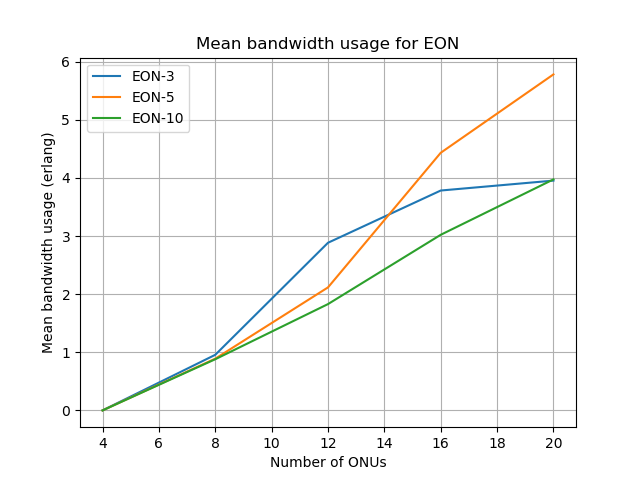
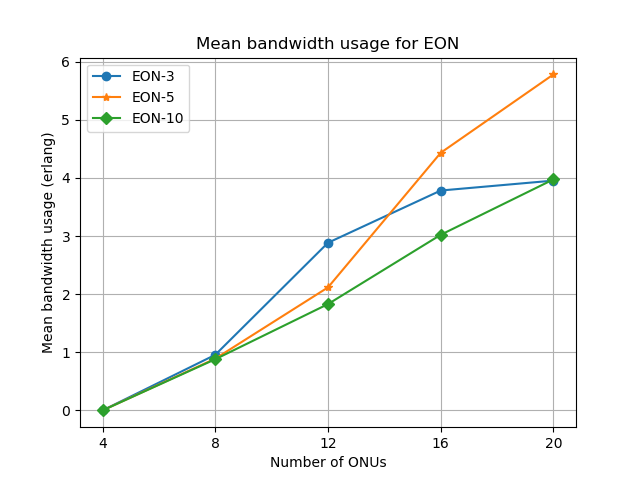
Improved graphic with markers; storing results per-seed

diff --git a/experiments/results/results_plotter.py b/experiments/results/results_plotter.py
@@ -1,9 +1,11 @@
 import numpy as np
 import matplotlib.pyplot as plt
+import itertools
 
 experiments = [3,5,10]
 supports = ["eon", "twdm", "both"]
 results = [("Average wait", 3), ("Mean bandwidth usage", 4), ("Percentage of requests blocked", 2)]
+marker = itertools.cycle(('v', '^', 's', 'o', '*', 'D')) 
 
 # Plotting average wait for TWDM
 for experiment in experiments:
@@ -18,7 +20,7 @@ for experiment in experiments:
         n_onus.append(int(line.split('\t')[0]))
         wait.append(float(line.split('\t')[3]))
 
-    plt.plot(n_onus, wait, label="TWDM-{}".format(experiment))
+    plt.plot(n_onus, wait, marker=next(marker), label="TWDM-{}".format(experiment))
 
 plt.yscale('log')
 plt.grid(True, "major")
@@ -26,6 +28,7 @@ plt.grid(True, "minor", linestyle='dotted')
 plt.title("Average wait for TWDM")
 plt.legend()
 plt.xlabel("Number of ONUs")
+plt.xticks(n_onus)
 plt.ylabel("Average wait (s)")
 plt.savefig("Average wait for TWDM.png")
 plt.clf()
@@ -43,7 +46,7 @@ for experiment in experiments:
         n_onus.append(int(line.split('\t')[0]))
         wait.append(float(line.split('\t')[3]))
 
-    plt.plot(n_onus, wait, label="EON-{}".format(experiment))
+    plt.plot(n_onus, wait, marker=next(marker), label="EON-{}".format(experiment))
 
 plt.yscale('log')
 plt.grid(True, "major")
@@ -51,6 +54,7 @@ plt.grid(True, "minor", linestyle='dotted')
 plt.title("Average wait for EON")
 plt.legend()
 plt.xlabel("Number of ONUs")
+plt.xticks(n_onus)
 plt.ylabel("Average wait (s)")
 plt.savefig("Average wait for EON.png")
 plt.clf()
@@ -69,7 +73,7 @@ for support in ["eon", "twdm"]:
             n_onus.append(int(line.split('\t')[0]))
             wait.append(float(line.split('\t')[3]))
 
-        plt.plot(n_onus, wait, label="{}-{}".format(support.upper(), experiment))
+        plt.plot(n_onus, wait, marker=next(marker), label="{}-{}".format(support.upper(), experiment))
 
 plt.yscale('log')
 plt.grid(True, "major")
@@ -77,6 +81,7 @@ plt.grid(True, "minor", linestyle='dotted')
 plt.title("Average wait")
 plt.legend()
 plt.xlabel("Number of ONUs")
+plt.xticks(n_onus)
 plt.ylabel("Average wait (s)")
 plt.savefig("Average wait.png")
 plt.clf()
@@ -95,7 +100,7 @@ for experiment in experiments:
         n_onus.append(int(line.split('\t')[0]))
         wait.append(float(line.split('\t')[4]))
 
-    plt.plot(n_onus, wait, label="TWDM-{}".format(experiment))
+    plt.plot(n_onus, wait, marker=next(marker), label="TWDM-{}".format(experiment))
 
 #plt.yscale('log')
 plt.grid(True, "major")
@@ -103,6 +108,7 @@ plt.grid(True, "minor", linestyle='dotted')
 plt.title("Mean bandwidth usage for TWDM")
 plt.legend()
 plt.xlabel("Number of ONUs")
+plt.xticks(n_onus)
 plt.ylabel("Mean bandwidth usage (erlang)")
 plt.savefig("Mean bandwidth usage for TWDM.png")
 plt.clf()
@@ -120,7 +126,7 @@ for experiment in experiments:
         n_onus.append(int(line.split('\t')[0]))
         wait.append(float(line.split('\t')[4]))
 
-    plt.plot(n_onus, wait, label="EON-{}".format(experiment))
+    plt.plot(n_onus, wait, marker=next(marker), label="EON-{}".format(experiment))
 
 #plt.yscale('log')
 plt.grid(True, "major")
@@ -128,6 +134,7 @@ plt.grid(True, "minor", linestyle='dotted')
 plt.title("Mean bandwidth usage for EON")
 plt.legend()
 plt.xlabel("Number of ONUs")
+plt.xticks(n_onus)
 plt.ylabel("Mean bandwidth usage (erlang)")
 plt.savefig("Mean bandwidth usage for EON.png")
 plt.clf()
@@ -146,7 +153,7 @@ for support in ["eon", "twdm"]:
             n_onus.append(int(line.split('\t')[0]))
             wait.append(float(line.split('\t')[4]))
 
-        plt.plot(n_onus, wait, label="{}-{}".format(support.upper(), experiment))
+        plt.plot(n_onus, wait, marker=next(marker), label="{}-{}".format(support.upper(), experiment))
 
 #plt.yscale('log')
 plt.grid(True, "major")
@@ -154,6 +161,7 @@ plt.grid(True, "minor", linestyle='dotted')
 plt.title("Mean bandwidth usage")
 plt.legend()
 plt.xlabel("Number of ONUs")
+plt.xticks(n_onus)
 plt.ylabel("Mean bandwidth usage (erlang)")
 plt.savefig("Mean bandwidth usage.png")
 plt.clf()
@@ -173,7 +181,7 @@ for experiment in experiments:
         n_onus.append(int(line.split('\t')[0]))
         wait.append(float(line.split('\t')[2]))
 
-    plt.plot(n_onus, wait, label="TWDM-{}".format(experiment))
+    plt.plot(n_onus, wait, marker=next(marker), label="TWDM-{}".format(experiment))
 
 #plt.yscale('log')
 plt.grid(True, "major")
@@ -181,6 +189,7 @@ plt.grid(True, "minor", linestyle='dotted')
 plt.title("Percentage of Lost Packets for TWDM")
 plt.legend()
 plt.xlabel("Number of ONUs")
+plt.xticks(n_onus)
 plt.ylabel("Lost packets (%)")
 plt.savefig("Percentage of Lost Packets for TWDM.png")
 plt.clf()
@@ -198,7 +207,7 @@ for experiment in experiments:
         n_onus.append(int(line.split('\t')[0]))
         wait.append(float(line.split('\t')[2]))
 
-    plt.plot(n_onus, wait, label="EON-{}".format(experiment))
+    plt.plot(n_onus, wait, marker=next(marker), label="EON-{}".format(experiment))
 
 #plt.yscale('log')
 plt.grid(True, "major")
@@ -206,6 +215,7 @@ plt.grid(True, "minor", linestyle='dotted')
 plt.title("Percentage of Lost Packets for EON")
 plt.legend()
 plt.xlabel("Number of ONUs")
+plt.xticks(n_onus)
 plt.ylabel("Lost packets (%)")
 plt.savefig("Percentage of Lost Packets for EON.png")
 plt.clf()
@@ -224,7 +234,7 @@ for support in ["eon", "twdm"]:
             n_onus.append(int(line.split('\t')[0]))
             wait.append(float(line.split('\t')[2]))
 
-        plt.plot(n_onus, wait, label="{}-{}".format(support.upper(), experiment))
+        plt.plot(n_onus, wait, marker=next(marker), label="{}-{}".format(support.upper(), experiment))
 
 #plt.yscale('log')
 plt.grid(True, "major")
@@ -232,6 +242,7 @@ plt.grid(True, "minor", linestyle='dotted')
 plt.title("Percentage of Lost Packets")
 plt.legend()
 plt.xlabel("Number of ONUs")
+plt.xticks(n_onus)
 plt.ylabel("Lost packets (%)")
 plt.savefig("Percentage of Lost Packets.png")
 plt.clf()

diff --git a/experiments/run_plot.py b/experiments/run_plot.py
@@ -140,11 +140,15 @@ def compute_mean_erlang(packets, total_time, total_channels, channel_size, delta
     return erlangs.mean(), erlangs.std()
 
 plot1 = int(max_onus/onu_step) * [0]
+plot1e = int(max_onus/onu_step) * [0]
 plot2 = int(max_onus/onu_step) * [0]
+plot2e = int(max_onus/onu_step) * [0]
 plot3 = int(max_onus/onu_step) * [0]
+plot3e = int(max_onus/onu_step) * [0]
 plot4 = int(max_onus/onu_step) * [0]
-plot4e= int(max_onus/onu_step) * [0]
+plot4e = int(max_onus/onu_step) * [0]
 plot5 = int(max_onus/onu_step) * [0]
+plot5e = int(max_onus/onu_step) * [0]
 
 if experiment == 1:
     seeds = [2]
@@ -284,7 +288,7 @@ from multiprocessing import Pool
 with Pool(processes = 16) as pool:
     results = pool.map(run_for_seed, seeds)
 
-for seed_result in results:
+for i, seed_result in enumerate(results):
     lost_req, count_req, mean_waited_array, mean_erlangs, std_erlangs, power_consumption = seed_result
     for i in range(len(lost_req)):
         plot1[i] += lost_req[i] / len(seeds)
@@ -294,6 +298,13 @@ for seed_result in results:
         plot4e[i]+= std_erlangs[i] / len(seeds)
         plot5[i] += power_consumption[i] / len(seeds)
 
+    seed_results_file = open(os.path.join("results", "{}_{}{}_detailed_seed_{}.txt".format(topology, support, experiment, seeds[i])) ,"w")
+    seed_results_file.write("n_ONUS\tLost_req\tLost_pct\tAvg_wait\terlang\terlang_std\tpower\n")
+
+    for i in range(len(lost_req)):
+        seed_results_file.write("{}\t{}\t{}\t{}\t{}\t{}\t{}\n".format((i+1)*onu_step, lost_req[i], (lost_req[i]/(count_req[i] if count_req[i] != 0 else 1)), mean_waited_array[i], mean_erlangs[i], std_erlangs[i], power_consumption[i]))
+    seed_results_file.close()
+
 results_file = open(os.path.join("results", "{}_{}{}.txt".format(topology, support, experiment)) ,"w")
 results_file.write("n_ONUS\tLost_req\tLost_pct\tAvg_wait\terlang\terlang_std\tpower\n")
 for n_onu, lost_req, lost_pct, avg_wait, erlang, erlang_std, power in zip(range(onu_step,max_onus+1, onu_step), plot1, plot2, plot3, plot4, plot4e, plot5):
@@ -301,40 +312,40 @@ for n_onu, lost_req, lost_pct, avg_wait, erlang, erlang_std, power in zip(range(
 
 results_file.close()
 
-plt.plot(range(onu_step,max_onus+1, onu_step), plot1, 'g.-')
-plt.ylabel('Number of Requests Lost')
-plt.xlabel("Number of ONUs")
-plt.grid()
-plt.savefig('plots/{}_{}{}_lost_req.png'.format(topology, support, experiment), bbox_inches='tight')
-plt.clf()
+# plt.plot(range(onu_step,max_onus+1, onu_step), plot1, 'g.-')
+# plt.ylabel('Number of Requests Lost')
+# plt.xlabel("Number of ONUs")
+# plt.grid()
+# plt.savefig('plots/{}_{}{}_lost_req.png'.format(topology, support, experiment), bbox_inches='tight')
+# plt.clf()
 
-plt.plot(range(onu_step,max_onus+1, onu_step), plot2, 'b.-')
-plt.ylabel('Percentage of Requests Lost')
-plt.xlabel("Number of ONUs")
-plt.grid()
-plt.savefig('plots/{}_{}{}_lost_pct.png'.format(topology, support, experiment), bbox_inches='tight')
-plt.clf()
+# plt.plot(range(onu_step,max_onus+1, onu_step), plot2, 'b.-')
+# plt.ylabel('Percentage of Requests Lost')
+# plt.xlabel("Number of ONUs")
+# plt.grid()
+# plt.savefig('plots/{}_{}{}_lost_pct.png'.format(topology, support, experiment), bbox_inches='tight')
+# plt.clf()
 
-plt.plot(range(onu_step,max_onus+1, onu_step), plot3, 'r.-')
-plt.ylabel('Average waited time (s)')
-plt.xlabel("Number of ONUs")
-plt.grid()
-plt.savefig('plots/{}_{}{}_avg_wait.png'.format(topology, support, experiment), bbox_inches='tight')
-plt.clf()
+# plt.plot(range(onu_step,max_onus+1, onu_step), plot3, 'r.-')
+# plt.ylabel('Average waited time (s)')
+# plt.xlabel("Number of ONUs")
+# plt.grid()
+# plt.savefig('plots/{}_{}{}_avg_wait.png'.format(topology, support, experiment), bbox_inches='tight')
+# plt.clf()
 
-plt.errorbar(range(onu_step,max_onus+1, onu_step), plot4, plot4e, None, 'c.-')
-plt.ylabel('Mean bandwidth usage (erlangs)')
-plt.xlabel("Number of ONUs")
-plt.grid()
-plt.savefig('plots/{}_{}{}_erlang.png'.format(topology, support, experiment), bbox_inches='tight')
-plt.clf()
+# plt.errorbar(range(onu_step,max_onus+1, onu_step), plot4, plot4e, None, 'c.-')
+# plt.ylabel('Mean bandwidth usage (erlangs)')
+# plt.xlabel("Number of ONUs")
+# plt.grid()
+# plt.savefig('plots/{}_{}{}_erlang.png'.format(topology, support, experiment), bbox_inches='tight')
+# plt.clf()
 
-plt.plot(range(onu_step,max_onus+1, onu_step), plot5, 'b.-')
-plt.ylabel('Total power consumption (W)')
-plt.xlabel("Number of ONUs")
-plt.grid()
-plt.savefig('plots/{}_{}{}_power.png'.format(topology, support, experiment), bbox_inches='tight')
-plt.clf()
+# plt.plot(range(onu_step,max_onus+1, onu_step), plot5, 'b.-')
+# plt.ylabel('Total power consumption (W)')
+# plt.xlabel("Number of ONUs")
+# plt.grid()
+# plt.savefig('plots/{}_{}{}_power.png'.format(topology, support, experiment), bbox_inches='tight')
+# plt.clf()
 
 
 print("Finished")

diff --git a/experiments/results/results_tabler.py b/experiments/results/results_tabler.py
@@ -1,0 +1,28 @@
+onus = ['4','8','12','16','20']
+experiments = [3,5,10]
+supports = ["eon","twdm"]
+results = [(":.5f", 3), (":.2f", 4), (":.4f", 2)]
+
+for onu in onus:
+    print("  \multirow{{6}}{{*}}{{{}}} & ".format(onu), end="")
+    for experiment in experiments:
+        if experiment != 3:
+            print("  & ", end="")
+        print("\multirow{{2}}{{*}}{{{}}} & ".format(experiment), end="")
+        for support in supports:
+            if support == "twdm": print("  & & ", end="")
+            else: print("   ", end="")
+            print("{} & ".format(support.upper()), end="")
+            for result in results:
+                file = open("cran_{}{}.txt".format(support, experiment))
+                for line in file:
+                    if line.split('\t')[0] == onu:
+                        if result[1] == 3:
+                            print("{:.5f} & ".format(float(line.split('\t')[result[1]])), end="")
+                        if result[1] == 4:
+                            print("{:.2f} & ".format(float(line.split('\t')[result[1]])), end="")
+                        if result[1] == 2:
+                            print("{:.4f} ".format(float(line.split('\t')[result[1]])), end="")
+            print("\\\\")
+        print("  \cline{2-6}")
+    print(" \hline")
